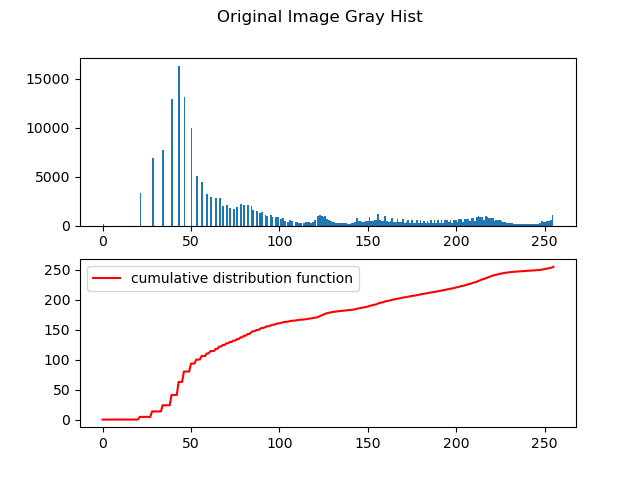
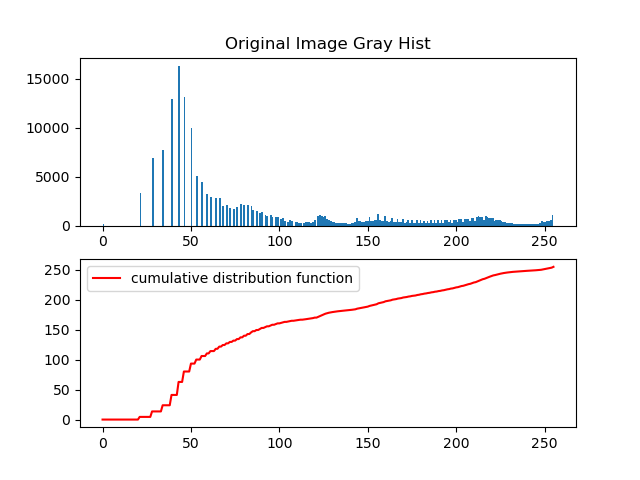
update: plt.title

Changed region(s): [[0.3438, 0.0, 0.6875, 0.125]]

diff --git a/cv02_image_enhancement/image_enhancement.py b/cv02_image_enhancement/image_enhancement.py
@@ -59,7 +59,7 @@ cv.imwrite('image/compare_eh.png', img_eh_compare)
 # 统计原始图像的直方图，灰度256阶
 plt.subplot(2, 1, 1)
 plt.hist(img.flatten(), 256)
-plt.suptitle('Original Image Gray Hist')
+plt.title('Original Image Gray Hist')
 # 累计分布函数
 plt.subplot(2, 1, 2)
 plt.plot(cdf, color='r', label='cumulative distribution function')
@@ -118,7 +118,9 @@ img_clahe_limit20 = clahe_limit20.apply(img)
 img_clahe_limit40 = clahe_limit40.apply(img)
 img_clahe_limit100 = clahe_limit100.apply(img)
 # 显示
-img_clahe_compare_limit = np.hstack([img, img_clahe_limit2, img_clahe_limit5, img_clahe_limit10, img_clahe_limit20, img_clahe_limit40, img_clahe_limit100])
+img_clahe_compare_limit1 = np.hstack([img, img_clahe_limit2, img_clahe_limit5, img_clahe_limit10])
+img_clahe_compare_limit2 = np.hstack([img, img_clahe_limit20, img_clahe_limit40, img_clahe_limit100])
+img_clahe_compare_limit = np.vstack([img_clahe_compare_limit1, img_clahe_compare_limit2])
 img_show('img_clahe_compare_limit', img_clahe_compare_limit)
 cv.imwrite('image/img_clahe_compare_limit.png', img_clahe_compare_limit)
 
@@ -143,13 +145,13 @@ ax[1][2].hist(img_clahe_limit10.flatten(), 256)
 ax[1][2].set_title('clipLimit=10')
 # limit = 20
 ax[2][0].hist(img_clahe_limit20.flatten(), 256)
-ax[2][0].set_title('clipLimit=2')
+ax[2][0].set_title('clipLimit=20')
 # limit = 40
 ax[2][1].hist(img_clahe_limit40.flatten(), 256)
-ax[2][1].set_title('clipLimit=5')
+ax[2][1].set_title('clipLimit=40')
 # limit = 100
 ax[2][2].hist(img_clahe_limit100.flatten(), 256)
-ax[2][2].set_title('clipLimit=10')
+ax[2][2].set_title('clipLimit=100')
 # 保存及显示
 plt.savefig('image/hist_compare_clahe_limit.png')
 plt.show()
